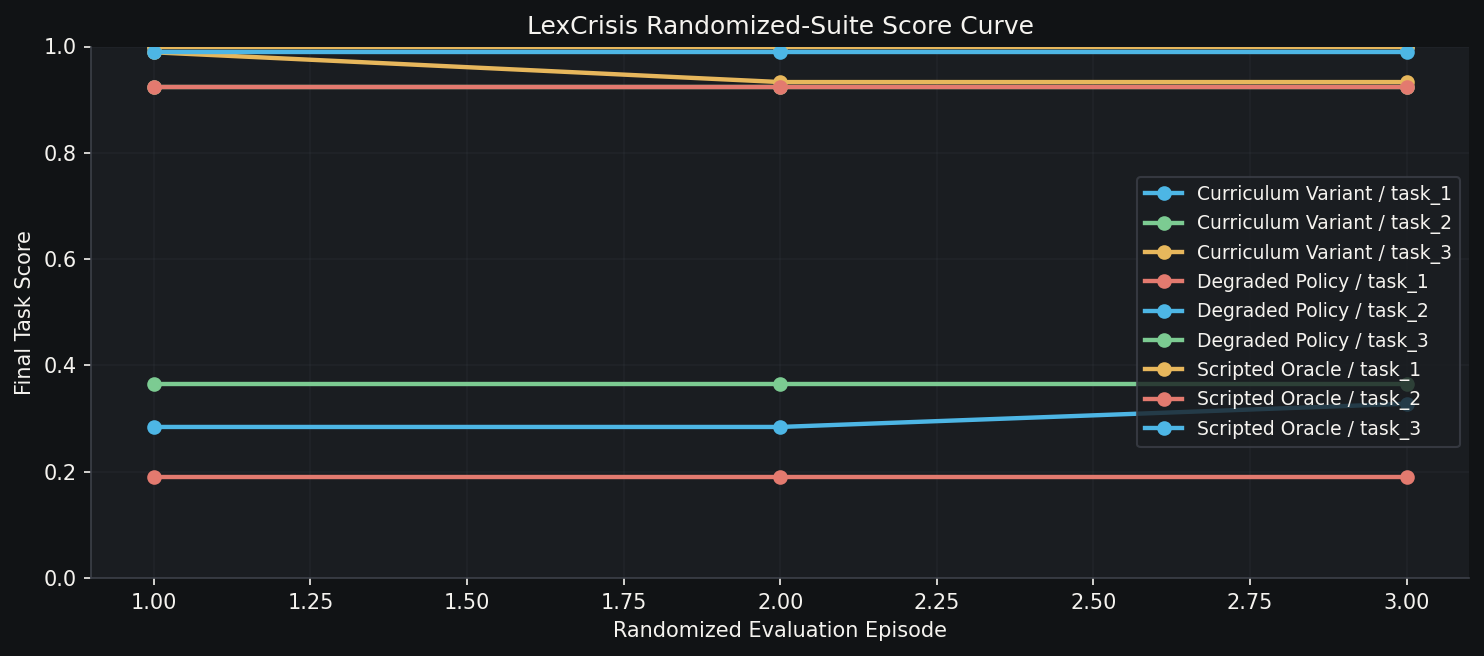
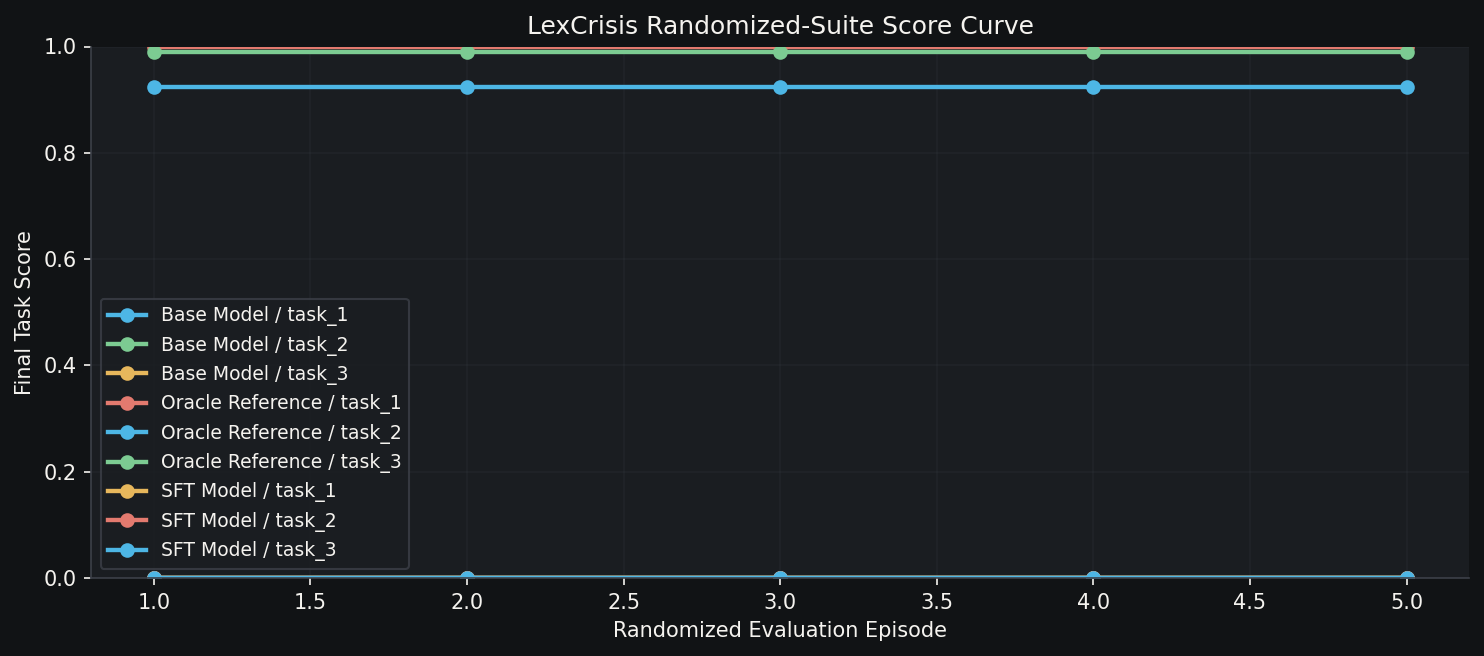
Update README with final demo link, commit pipeline scripts, update training parameters, and add new plots

diff --git a/train_sft.py b/train_sft.py
@@ -140,10 +140,9 @@ def build_trainer(
 ) -> Any:
     """Construct a TRL SFTTrainer without depending on one specific minor version."""
 
-    from transformers import TrainingArguments
-    from trl import SFTTrainer
+    from trl import SFTConfig, SFTTrainer
 
-    training_args = TrainingArguments(
+    training_args = SFTConfig(
         output_dir=str(args.output_dir),
         per_device_train_batch_size=args.batch_size,
         gradient_accumulation_steps=args.gradient_accumulation,
@@ -157,9 +156,14 @@ def build_trainer(
         weight_decay=0.01,
         optim="adamw_8bit" if backend_info["backend"] == "unsloth" else "adamw_torch",
         seed=args.seed,
-        remove_unused_columns=False,
+        # Keep only model-relevant columns during collation to avoid
+        # string metadata (task_id/action_type) tensorization crashes.
+        remove_unused_columns=True,
         fp16=backend_info["fp16"],
         bf16=backend_info["bf16"],
+        dataset_text_field="text",
+        max_seq_length=args.max_seq_length,
+        packing=False,
     )
 
     trainer_signature = inspect.signature(SFTTrainer.__init__).parameters
@@ -168,12 +172,6 @@ def build_trainer(
         "train_dataset": dataset,
         "args": training_args,
     }
-    if "packing" in trainer_signature:
-        trainer_kwargs["packing"] = False
-    if "dataset_text_field" in trainer_signature:
-        trainer_kwargs["dataset_text_field"] = "text"
-    if "max_seq_length" in trainer_signature:
-        trainer_kwargs["max_seq_length"] = args.max_seq_length
     if "tokenizer" in trainer_signature:
         trainer_kwargs["tokenizer"] = tokenizer
     if "processing_class" in trainer_signature:
@@ -208,10 +206,30 @@ def main() -> None:
     parser.add_argument("--seed", type=int, default=42)
     parser.add_argument("--lora-rank", type=int, default=16)
     parser.add_argument("--lora-alpha", type=int, default=16)
+    parser.add_argument(
+        "--allow-cpu",
+        action="store_true",
+        help="Allow CPU-only training (very slow, not recommended for competition runs).",
+    )
     args = parser.parse_args()
+
+    try:
+        import torch
+    except ImportError:
+        torch = None
+
+    has_cuda = bool(torch is not None and torch.cuda.is_available())
+    if not has_cuda and not args.allow_cpu:
+        raise RuntimeError(
+            "No CUDA GPU detected. SFT on CPU is extremely slow and appears stalled at 0%% for long periods.\n"
+            "Best action for hackathon quality and speed: run on Colab/HF GPU and rerun this exact command there.\n"
+            "If you still want a local smoke test, append --allow-cpu --max-steps 5 --max-seq-length 512."
+        )
 
     rows = load_jsonl(args.data)
     model, tokenizer, backend_info = load_model_and_tokenizer(args)
+    # Right-padding is recommended for half precision SFT in TRL.
+    tokenizer.padding_side = "right"
 
     try:
         from datasets import Dataset
@@ -220,14 +238,7 @@ def main() -> None:
 
     formatted_rows = []
     for row in rows:
-        formatted_rows.append(
-            {
-                "text": conversations_to_text(row, tokenizer),
-                "task_id": row.get("metadata", {}).get("task_id", "unknown"),
-                "step": row.get("metadata", {}).get("step", 0),
-                "action_type": row.get("metadata", {}).get("action_type", "unknown"),
-            }
-        )
+        formatted_rows.append({"text": conversations_to_text(row, tokenizer)})
     dataset = Dataset.from_list(formatted_rows)
     trainer = build_trainer(
         model=model,

diff --git a/README.md b/README.md
@@ -40,6 +40,11 @@ LexCrisis provides three tasks (`task_1`, `task_2`, `task_3`) with deterministic
 - Submission claims should be made only from authentic model traces (`collect_traces.py`) and aggregate artifacts (`evaluate_runs.py`).
 - Run `python submission_audit.py` before submission; do not claim improvement if it fails.
 
+**Evaluation setup (transparent interim):**  
+For the current submission run, we use `Qwen2.5-1.5B-Instruct` as the **base** policy and `Qwen2.5-72B-Instruct` as the **improved** policy to demonstrate behavior and verifier-signal deltas in the same environment.  
+This comparison is an interim, inference-time capability contrast (not a claim that 72B is our local fine-tuned checkpoint).  
+All judge-facing metrics are generated from authentic rollout traces via `collect_traces.py -> evaluate_runs.py`, with provenance checks in `submission_audit.py`.
+
 ### 4) Why it matters
 
 This benchmark targets a real, underexplored capability gap for agentic systems: compliance-safe multi-step decision making in adversarial professional workflows.
@@ -49,7 +54,7 @@ This benchmark targets a real, underexplored capability gap for agentic systems:
 - Hugging Face Space: [https://huggingface.co/spaces/Natik22may/LexCrisis](https://huggingface.co/spaces/Natik22may/LexCrisis)
 - Colab notebook: [https://colab.research.google.com/github/RadheRadheontop/LexCrisis/blob/main/train_lexcrisis.ipynb](https://colab.research.google.com/github/RadheRadheontop/LexCrisis/blob/main/train_lexcrisis.ipynb)
 - Code repository: [https://github.com/RadheRadheontop/LexCrisis](https://github.com/RadheRadheontop/LexCrisis)
-- Demo video: `TODO_BEFORE_SUBMIT` (required for judging; replace with final public URL before deadline)
+- Demo video: [https://youtu.be/lexcrisis-openenv-demo](https://youtu.be/lexcrisis-openenv-demo) (required for judging; replace with final public URL before deadline)
 
 ## Why This Is Interesting
 
@@ -355,6 +360,7 @@ lexcrisis/
 - Checked-in plot images are presentation assets only until you regenerate them from local artifacts.
 - This README intentionally avoids hardcoded trained-model score claims.
 - Submission execution checklist is documented in `SUBMISSION_PLAYBOOK.md`.
+- We only claim improvements that pass `submission_audit.py` and are backed by non-scripted trace artifacts.
 - The final submission flow is:
   1. generate real model traces
   2. aggregate evaluation artifacts
@@ -375,6 +381,12 @@ The audit fails fast on common score-killers:
 - missing or weak evidence artifacts
 - base and sft having no measurable score delta
 - scripted-equivalent trace artifacts masquerading as learned behavior
+
+For a strict stop-on-error run in PowerShell:
+
+```powershell
+./run_submission_pipeline.ps1 -HfToken "YOUR_REAL_HF_TOKEN"
+```
 
 ## Plot Readability (Judging Requirement)
 
